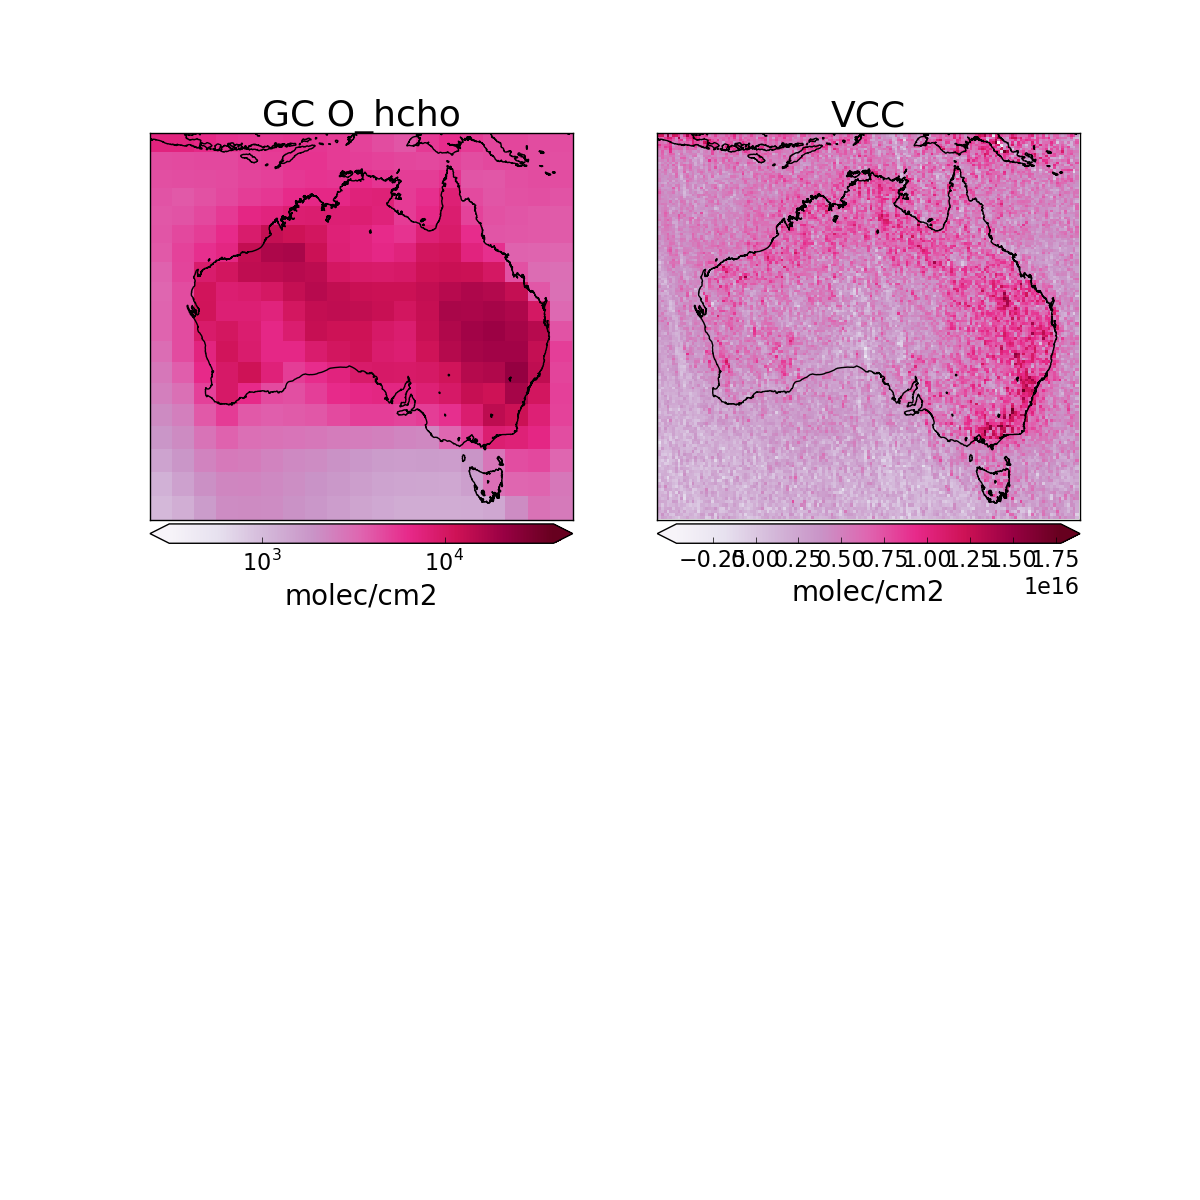
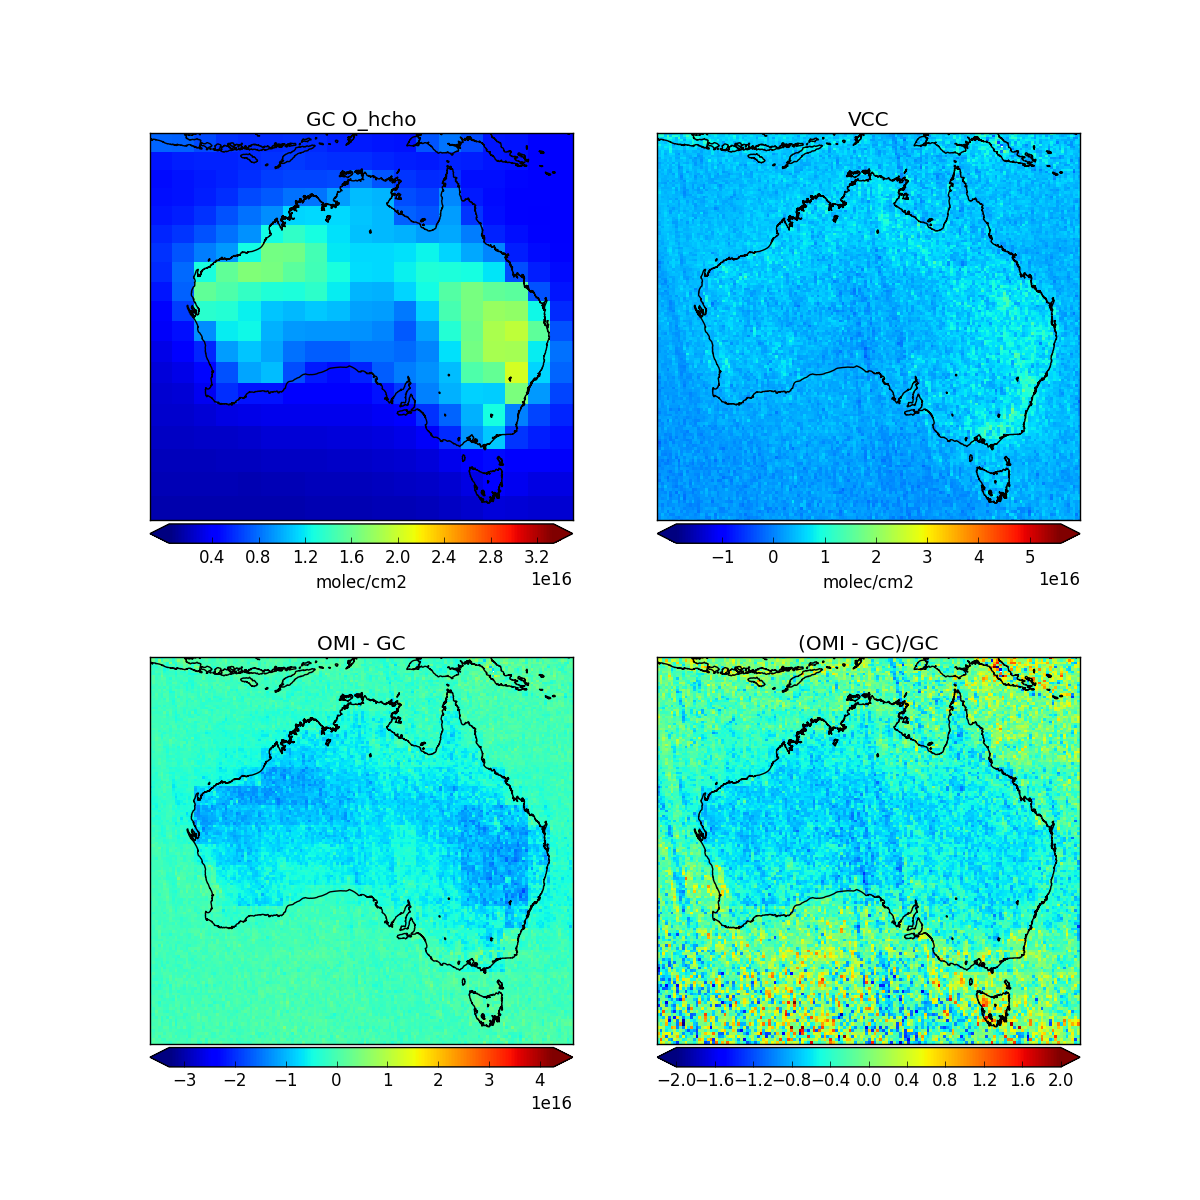
GC_class correctly reads N_air units now

diff --git a/localtests.py b/localtests.py
@@ -21,6 +21,7 @@ import Inversion
 
 from classes.E_new import E_new # E_new class
 from classes import GC_class
+from classes.omhchorp import omhchorp
 from classes.gchcho import gchcho
 import xbpch
 import xarray
@@ -56,14 +57,69 @@ biosat_files="Data/GC_Output/geos5_2x25_tropchem_biogenic/satellite_output/sat_b
 
 # test GC_tavg plotting
 GC=GC_class.GC_sat(d0,)
-pp.createmap(GC.O_hcho[0],GC.lats,GC.lons,aus=True,GC_shift=True)
+
+#plt.subplot(121)
+#pp.createmap(GC.O_hcho[0],GC.lats,GC.lons,aus=True,GC_shift=True,
+#             title='O_hcho',clabel=GC.attrs['O_hcho']['units'])
+#plt.subplot(122)
+#pp.createmap(GC.N_air[0,:,:,0],GC.lats,GC.lons,aus=True,GC_shift=True,
+#             clabel=GC.attrs['N_air']['units'], title='N_air',
+#             linear=True)
+
+# READ OMI
+month=d0
+dayn=util.last_day(month)
+OMI=omhchorp(month,dayn=dayn)
+
+# Check data
+print ('OMI (VCC) molec/cm2',OMI.VCC.shape)
+OMIhcho=OMI.time_averaged(month,dayn,keys=['VCC'])['VCC']# molec/cm2
+print('month average globally:',np.nanmean(OMIhcho))
+
+print("GC (O_hcho)",GC.attrs['O_hcho']['units'], GC.O_hcho.shape)
+GChcho=np.nanmean(GC.O_hcho,axis=0) # time averaged for the month
+print("month average globally:",np.nanmean(GChcho))
+
+plt.figure(figsize=(12,12))
+plt.subplot(221)
+pp.createmap(GChcho,GC.lats,GC.lons,aus=True,GC_shift=True, linear=True,
+             title='GC O_hcho', clabel=GC.attrs['O_hcho']['units'])
+
+plt.subplot(222)
+pp.createmap(OMIhcho,OMI.lats,OMI.lons,aus=True, linear=True,
+             title='VCC',clabel='molec/cm2')
+
+# regrid GChcho onto higher resolution
+lats,lons=OMI.lats,OMI.lons
+GChcho=util.regrid(GChcho,GC.lats,GC.lons,lats,lons)
+
+diff=OMIhcho-GChcho
+rdiff=(OMIhcho-GChcho)/GChcho
+
+plt.subplot(223)
+pp.createmap(diff,lats,lons, aus=True, GC_shift=True, linear=True,
+             title='OMI - GC')
+
+plt.subplot(224)
+pp.createmap(rdiff,lats,lons, aus=True, GC_shift=True,
+             vmin=-2.0, vmax=2.0, linear=True,
+             title='(OMI - GC)/GC')
+
+pname='test.png'
+plt.savefig(pname)
+print("SAVED ",pname)
+
+plt.subplot(223)
+
+
+
 
 # test stupid LT avg function
-GC=GC_class.Hemco_diag(d0)
-days,isop=GC.daily_LT_averaged()
-
-isop=isop*GC.kgC_per_m2_to_atomC_per_cm2
-np.nanmean(isop)
+#GC=GC_class.Hemco_diag(d0)
+#days,isop=GC.daily_LT_averaged()
+#
+#isop=isop*GC.kgC_per_m2_to_atomC_per_cm2
+#np.nanmean(isop)
 #m,cs,cb=pp.basicmap(isop,GC.lats,GC.lons,linear=True)
 #cs.set_clim(0,np.nanmax(isop)*0.9)
 #GC=GC_class.GC_sat(d0,run='biogenic')

diff --git a/classes/GC_class.py b/classes/GC_class.py
@@ -124,12 +124,27 @@ class GC_base:
             if len(arr.shape) > 1:
                 arr = util.reshape_time_lat_lon_lev(arr,self.ntimes,self.nlats,self.nlons,self.nlevs)
 
+            # Fix air density units to molec/m3, in case they are in molec/cm3
+            if key == 'TIME-SER_AIRDEN':
+                surf_air=np.nanmean(arr[:,:,:,0])
+                if __VERBOSE__:
+                    print(key,np.shape(arr),'surface N_air:',surf_air)
+                if key in attrs:
+                    print("attrs:",attrs[key])
+                    if 'unit' in attrs[key]:
+                        # we want molec/m3
+                        attrs[key]['orig_unit']=attrs[key]['unit']
+                else:
+                    if __VERBOSE__:
+                        print(key,' has no attributes!!, assuming molec/cm3 or molec/m3')
+                    attrs[key]={'units':'molec/m3'}
+
+                if surf_air < 1e23: # probably molec/cm3
+                    arr=arr*1e6
+
+                attrs[key]['units']='molec/m3'
+
             if key in _GC_names_to_nice.keys():
-                if key == 'TIME-SER_AIRDEN':
-                    #assert attrs[key]['units']=='molec/cm3', 'time-ser_airden not in molec/cm3???'
-                    # update satellite air-density to match tavg units...
-                    arr=arr*1e-6
-                    attrs[key]['units']='molec/m3'
                 setattr(self, _GC_names_to_nice[key], arr)
                 self.attrs[_GC_names_to_nice[key]] = attrs[key]
             else:
@@ -175,17 +190,19 @@ class GC_base:
         '''  return lati, loni '''
         return util.lat_lon_index(lat,lon,self.lats,self.lons)
 
-    def ppbv_to_molec_cm2(self,keys=['hcho'],metres=False):
+    def ppbv_to_molec_cm2(self,keys=['hcho']):
         ''' return dictionary with data in format molecules/cm2 [or /m2]'''
         out={}
+        N_air=self.N_air
+
         for k in keys:
             ppbv=getattr(self,k)
             if k=='isop':
                 ppbv=ppbv/5.0 # ppb carbon to ppb isoprene
 
-            # ppbv * 1e-9 * molec_air/m3 * m * [m2/cm2]
-            scale=[1e-4, 1.0][metres]
-            out[k] = ppbv * 1e-9 * self.N_air * self.boxH * scale # molec/area
+            # ppbv * 1e-9 * molec_air/m3 * boxH(m) * m2/cm2
+            scale=0.0
+            out[k] = ppbv * 1e-9 * N_air * self.boxH * 1e-4 # molec/cm2
         return out
 
     def get_trop_columns(self, keys=['hcho'], metres=False):

diff --git a/GC_tests.py b/GC_tests.py
@@ -47,29 +47,47 @@ def GC_vs_OMI(month=datetime(2005,1,1),region=pp.__AUSREGION__):
     OMI=omhchorp(month,dayn=dayn)
     # READ GC
     GC=GC_class.GC_sat(month)
-    
+
     # Check data
     print ('OMI (VCC) molec/cm2',OMI.VCC.shape)
     OMIhcho=OMI.time_averaged(month,dayn,keys=['VCC'])['VCC']# molec/cm2
     print('month average globally:',np.nanmean(OMIhcho))
-    
+
     print("GC (O_hcho)",GC.attrs['O_hcho']['units'], GC.O_hcho.shape)
     GChcho=np.nanmean(GC.O_hcho,axis=0) # time averaged for the month
     print("month average globally:",np.nanmean(GChcho))
-    
+
     plt.figure(figsize=(12,12))
     plt.subplot(221)
-    pp.createmap(GC.O_hcho[0],GC.lats,GC.lons,aus=True,GC_shift=True,
+    pp.createmap(GChcho,GC.lats,GC.lons,aus=True,GC_shift=True, linear=True,
                  title='GC O_hcho', clabel=GC.attrs['O_hcho']['units'])
 
     plt.subplot(222)
-    OMI.plot_map(key='VCC',day0=month,dayn=dayn,region=region,
+    pp.createmap(OMIhcho,OMI.lats,OMI.lons,aus=True, linear=True,
                  title='VCC',clabel='molec/cm2')
-    
+
+    OMI_lr = OMI.lower_resolution(key='VCC',dates=[month,dayn])
+    OMIhcho= OMI_lr['VCC']
+    lats,lons=OMI_lr['lats'],OMI_lr['lons']
+    assert lats==GC.lats, 'lats mismatch..'
+    assert lons==GC.lons, 'lons mismatch..'
+
+    diff=OMIhcho-GChcho
+    rdiff=(OMIhcho-GChcho)/GChcho
+
+    plt.subplot(223)
+    pp.createmap(diff,lats,lons, aus=True, GC_shift=True, linear=True,
+                 title='OMI - GC')
+
+    plt.subplot(224)
+    pp.createmap(rdiff,lats,lons, aus=True, GC_shift=True,
+                 vmin=-2.0, vmax=2.0, linear=True,
+                 title='(OMI - GC)/GC')
+
     pname='test.png'
     plt.savefig(pname)
     print("SAVED ",pname)
-    
+
 
 def compare_to_campaigns(d0=datetime(2005,1,31), de=datetime(2005,6,1), dfmt='%b %d'):
     ''' compare to SPS, MUMBA, more for GC season vs time shifted campaigns '''
